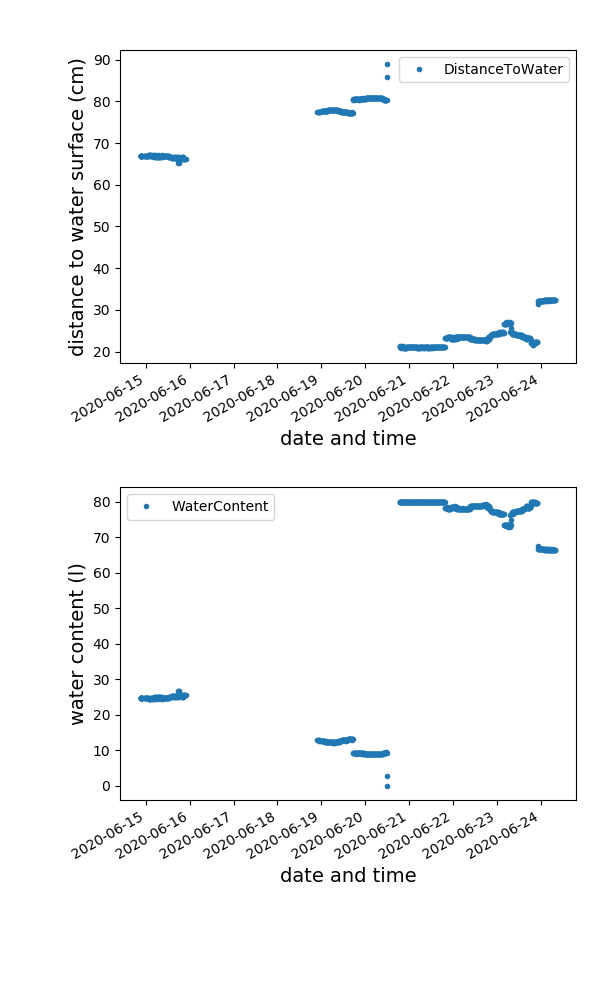
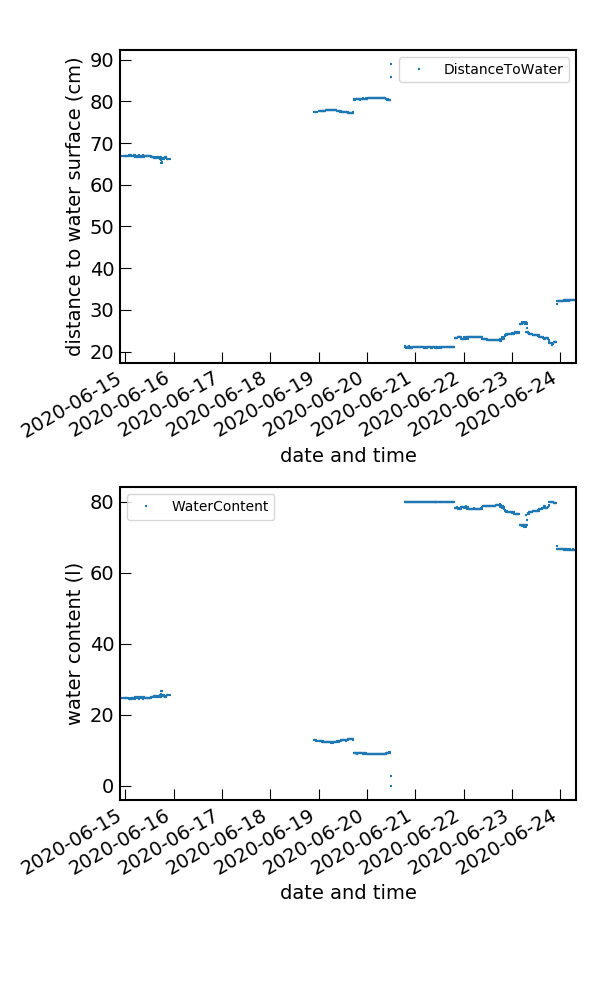
changed plot symbols

diff --git a/waterLevelScripts.py b/waterLevelScripts.py
@@ -31,12 +31,12 @@ def plotWaterLevel(wd=None):
     plt.subplots_adjust(left=0.2, right=0.96, top=0.95, bottom=0.1,hspace=0.4)
     plt.subplot(211)
     #fig, axes = plt.subplots(nrows=2, ncols=1)
-    wLevel.plot(x='Time',y='DistanceToWater',style='.',ax=plt.gca()) 
+    wLevel.plot(x='Time',y='DistanceToWater',style='_',ms=1,ax=plt.gca()) 
     plt.ylabel('distance to water surface (cm)',fontsize=14)
     plt.xlabel('date and time',fontsize=14)
     #plt.show()
     plt.subplot(212)
-    wLevel.plot(x='Time',y='WaterContent',style='.',ax=plt.gca()) 
+    wLevel.plot(x='Time',y='WaterContent',style='_',ms=1,ax=plt.gca()) 
     plt.ylabel('water content (l)',fontsize=14)
     plt.xlabel('date and time',fontsize=14)
     #
